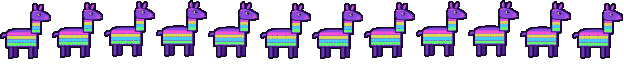
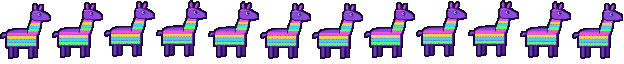
Battle Royale : coffre retiré ; lama avec un cou d'un seul tenant qui part du corps (tête rapprochée)

diff --git a/app/static/passers.js b/app/static/passers.js
@@ -942,15 +942,16 @@
       var fr = function (x, y, w, c) { var d = 'M' + x + ' ' + y; for (var i = 0; i < w / 10; i++) d += ' q5 6 10 0'; return '<path d="' + d + ' V' + (y - 9) + ' H' + x + 'Z" fill="' + c + '"/>'; };
       var cols = ['#ff4fd8', '#ffd23f', '#3fd1ff', '#5bff6b'];
       var body = ''; cols.forEach(function (c, i) { body += fr(36, 96 + i * 13, 110, c); });
-      var neck = ''; cols.forEach(function (c, i) { neck += fr(132, 48 + i * 12, 30, c); });
       return '<ellipse cx="96" cy="194" rx="56" ry="5" fill="#000" opacity=".3"/>' +
         '<g class="hop" style="animation-duration:.7s">' +
         '<g fill="#4a2490" stroke="#2a0a5a" stroke-width="2.5"><rect x="62" y="136" width="12" height="44" rx="5"/><rect x="138" y="136" width="12" height="44" rx="5"/></g><g fill="#6a34c0" stroke="#2a0a5a" stroke-width="2.5"><rect x="44" y="136" width="13" height="46" rx="5"/><rect x="120" y="136" width="13" height="46" rx="5"/></g>' +
         '<path d="M30 92 C20 88 12 96 16 106 C22 102 28 100 36 100" fill="#8a4ae0" stroke="#2a0a5a" stroke-width="2.5"/>' +
         '<path d="M34 96 C34 80 54 74 96 74 C130 74 150 80 150 96 V142 H34Z" fill="#8a4ae0" stroke="#2a0a5a" stroke-width="3"/>' + body +
         '<path d="M34 96 C34 80 54 74 96 74 C130 74 150 80 150 96 V142 H34Z" fill="none" stroke="#2a0a5a" stroke-width="3"/>' +
-        '<path d="M128 90 L132 22 H164 L162 90Z" fill="#8a4ae0" stroke="#2a0a5a" stroke-width="3" stroke-linejoin="round"/>' + neck +
-        '<path d="M128 90 L132 22 H164 L162 90Z" fill="none" stroke="#2a0a5a" stroke-width="3" stroke-linejoin="round"/>' +
+        '<clipPath id="ps-lneck"><path d="M112 92 C116 70 124 50 132 34 L166 30 C166 52 162 74 152 96Z"/></clipPath>' +
+        '<path d="M112 92 C116 70 124 50 132 34 L166 30 C166 52 162 74 152 96Z" fill="#8a4ae0"/>' +
+        '<g clip-path="url(#ps-lneck)">' + [0, 1, 2, 3, 4].map(function (i) { return fr(108, 48 + i * 11, 64, cols[i % 4]); }).join('') + '</g>' +
+        '<path d="M112 92 C116 70 124 50 132 34 L166 30 C166 52 162 74 152 96" fill="none" stroke="#2a0a5a" stroke-width="3" stroke-linejoin="round"/>' +
         '<path d="M140 2 C134 -10 136 -20 144 -22 C150 -14 150 -4 148 4Z M156 2 C156 -12 162 -20 170 -18 C172 -8 168 0 162 6Z" fill="#8a4ae0" stroke="#2a0a5a" stroke-width="2.5" stroke-linejoin="round"/>' +
         '<path d="M142 -2 C140 -10 141 -16 144 -18 M160 0 C162 -8 165 -14 168 -15" stroke="#ff4fd8" stroke-width="3" fill="none" stroke-linecap="round"/>' +
         '<path d="M128 26 C126 10 138 0 154 2 C166 4 176 10 190 18 C200 24 202 34 194 38 C182 42 166 42 150 42 C136 42 128 36 128 26Z" fill="#8a4ae0" stroke="#2a0a5a" stroke-width="3" stroke-linejoin="round"/>' +
@@ -1242,7 +1243,7 @@
   var BASEPX = '/static/passers_px/';
   try { BASEPX = new URL('passers_px/', document.currentScript.src).href; } catch (e) {}
   var ART_VW = 3.5 / 19.2;
-  var PX = {"epona":[12,1200,84,57],"loftwing":[12,1200,100,47],"pinkfairy":[12,1200,41,20],"witch":[12,1200,94,48],"bats":[12,1200,86,28],"pumpkin":[12,1200,36,41],"sleigh":[12,1200,145,43],"snowmansled":[12,1200,65,49],"snowflakes":[12,1200,77,34],"penguin":[12,1200,62,20],"drone":[12,1200,57,31],"flycar":[12,1200,95,33],"hologram":[12,1200,72,60],"pacman":[12,1200,112,20],"invaders":[12,1200,72,41],"mushroom":[12,1200,32,37],"whale":[12,1200,120,51],"turtle":[12,1200,64,36],"fish":[12,1200,61,24],"jellyfish":[12,1200,35,56],"dolphins":[12,1200,84,36],"ufo":[12,1200,60,44],"astronaut":[12,1200,53,53],"comet":[12,1200,85,20],"rocket":[12,1200,79,32],"satellite":[12,1200,78,30],"ship":[12,1200,106,78],"parrot":[12,1200,58,27],"kraken":[12,1200,151,80],"bottle":[12,1200,71,25],"butterfly":[12,1200,27,29],"lantern":[12,1200,36,58],"crane":[12,1200,58,28],"crow":[12,1200,56,29],"shambler":[12,1200,30,61],"eyes":[12,1200,42,14],"hand":[12,1200,41,59],"doll":[12,1200,39,57],"car":[12,1200,116,31],"heli":[12,1200,68,45],"boat":[12,1200,102,28],"flamingo":[12,1200,91,28],"plane":[12,1200,158,32],"robot":[12,1200,36,48],"carry":[12,1200,79,58],"cart":[12,1200,65,43],"monster":[12,1200,68,46],"bus":[12,1200,83,84],"llama":[12,1200,51,63],"glider":[12,1200,66,47],"chest":[12,1200,42,50],"dragon":[12,1200,131,53],"knight":[12,1200,88,88],"giantbat":[12,1200,57,31],"wisps":[12,1200,71,22],"wolf":[12,1200,91,41],"moon":[12,1200,84,80],"owl":[12,1200,56,32],"hunter":[12,1200,31,61],"figure":[12,1200,52,57],"siren":[12,1200,45,73],"radio":[12,1200,40,58],"supply":[12,1200,51,59],"buggy":[12,1200,89,42],"assistbot":[12,1200,47,51],"pokeball":[12,1200,34,37],"balls":[12,1200,76,24],"cyclist":[12,1200,61,48],"birds":[12,1200,82,28],"bee":[12,1200,28,23],"fox":[12,1200,66,33],"ladybug":[12,1200,32,25],"patchballoon":[12,1200,51,67]};
+  var PX = {"epona":[12,1200,84,57],"loftwing":[12,1200,100,47],"pinkfairy":[12,1200,41,20],"witch":[12,1200,94,48],"bats":[12,1200,86,28],"pumpkin":[12,1200,36,41],"sleigh":[12,1200,145,43],"snowmansled":[12,1200,65,49],"snowflakes":[12,1200,77,34],"penguin":[12,1200,62,20],"drone":[12,1200,57,31],"flycar":[12,1200,95,33],"hologram":[12,1200,72,60],"pacman":[12,1200,112,20],"invaders":[12,1200,72,41],"mushroom":[12,1200,32,37],"whale":[12,1200,120,51],"turtle":[12,1200,64,36],"fish":[12,1200,61,24],"jellyfish":[12,1200,35,56],"dolphins":[12,1200,84,36],"ufo":[12,1200,60,44],"astronaut":[12,1200,53,53],"comet":[12,1200,85,20],"rocket":[12,1200,79,32],"satellite":[12,1200,78,30],"ship":[12,1200,106,78],"parrot":[12,1200,58,27],"kraken":[12,1200,151,80],"bottle":[12,1200,71,25],"butterfly":[12,1200,27,29],"lantern":[12,1200,36,58],"crane":[12,1200,58,28],"crow":[12,1200,56,29],"shambler":[12,1200,30,61],"eyes":[12,1200,42,14],"hand":[12,1200,41,59],"doll":[12,1200,39,57],"car":[12,1200,116,31],"heli":[12,1200,68,45],"boat":[12,1200,102,28],"flamingo":[12,1200,91,28],"plane":[12,1200,158,32],"robot":[12,1200,36,48],"carry":[12,1200,79,58],"cart":[12,1200,65,43],"monster":[12,1200,68,46],"bus":[12,1200,83,84],"llama":[12,1200,51,63],"glider":[12,1200,66,47],"dragon":[12,1200,131,53],"knight":[12,1200,88,88],"giantbat":[12,1200,57,31],"wisps":[12,1200,71,22],"wolf":[12,1200,91,41],"moon":[12,1200,84,80],"owl":[12,1200,56,32],"hunter":[12,1200,31,61],"figure":[12,1200,52,57],"siren":[12,1200,45,73],"radio":[12,1200,40,58],"supply":[12,1200,51,59],"buggy":[12,1200,89,42],"assistbot":[12,1200,47,51],"pokeball":[12,1200,34,37],"balls":[12,1200,76,24],"cyclist":[12,1200,61,48],"birds":[12,1200,82,28],"bee":[12,1200,28,23],"fox":[12,1200,66,33],"ladybug":[12,1200,32,25],"patchballoon":[12,1200,51,67]};
   function buildPx(k) {
     var p = PX[k];
     return '<div class="pxs" style="padding-bottom:' + (p[3] / p[2] * 100) + '%;background-image:url(' + BASEPX + k + '.png);background-size:' + (p[0] * 100) + '% 100%;' +

diff --git a/app/templates/overlays/title_overlay.html b/app/templates/overlays/title_overlay.html
@@ -229,7 +229,7 @@
       sub: '#fff6cc', substroke: '.09vw #1a1400', subfilter: 'drop-shadow(0 0 .4vw rgba(255,90,31,.8))',
       msg: '#fff6cc', msgsh: '.1vw .1vw 0 #000, 0 0 .5vw rgba(255,176,0,.6)',
       num: '#ffd400', numsh: '.15vw .15vw 0 #000, 0 0 .7vw rgba(255,212,0,.8)', em: '#ff5a1f', emsh: '.08vw .08vw 0 #000' },
-    fortnite: { font: 'Luckiest Guy', text: 'Luckiest Guy', w: 400, ls: '.04em', k: 1.16, subk: .9, fx: 'storm', pass: ['bus', 'llama', 'glider', 'chest'],
+    fortnite: { font: 'Luckiest Guy', text: 'Luckiest Guy', w: 400, ls: '.04em', k: 1.16, subk: .9, fx: 'storm', pass: ['bus', 'llama', 'glider'],
       grad: 'linear-gradient(to bottom,#ffffff 0%,#9fdcff 45%,#3fa9ff 100%)',
       filter: _ol('#16084a', .16) + ' drop-shadow(.3vw .3vw 0 #b14bff) drop-shadow(0 0 1vw rgba(63,169,255,.6))',
       sub: '#ffe14d', substroke: '.1vw #16084a', subfilter: 'drop-shadow(.16vw .16vw 0 #16084a)',
